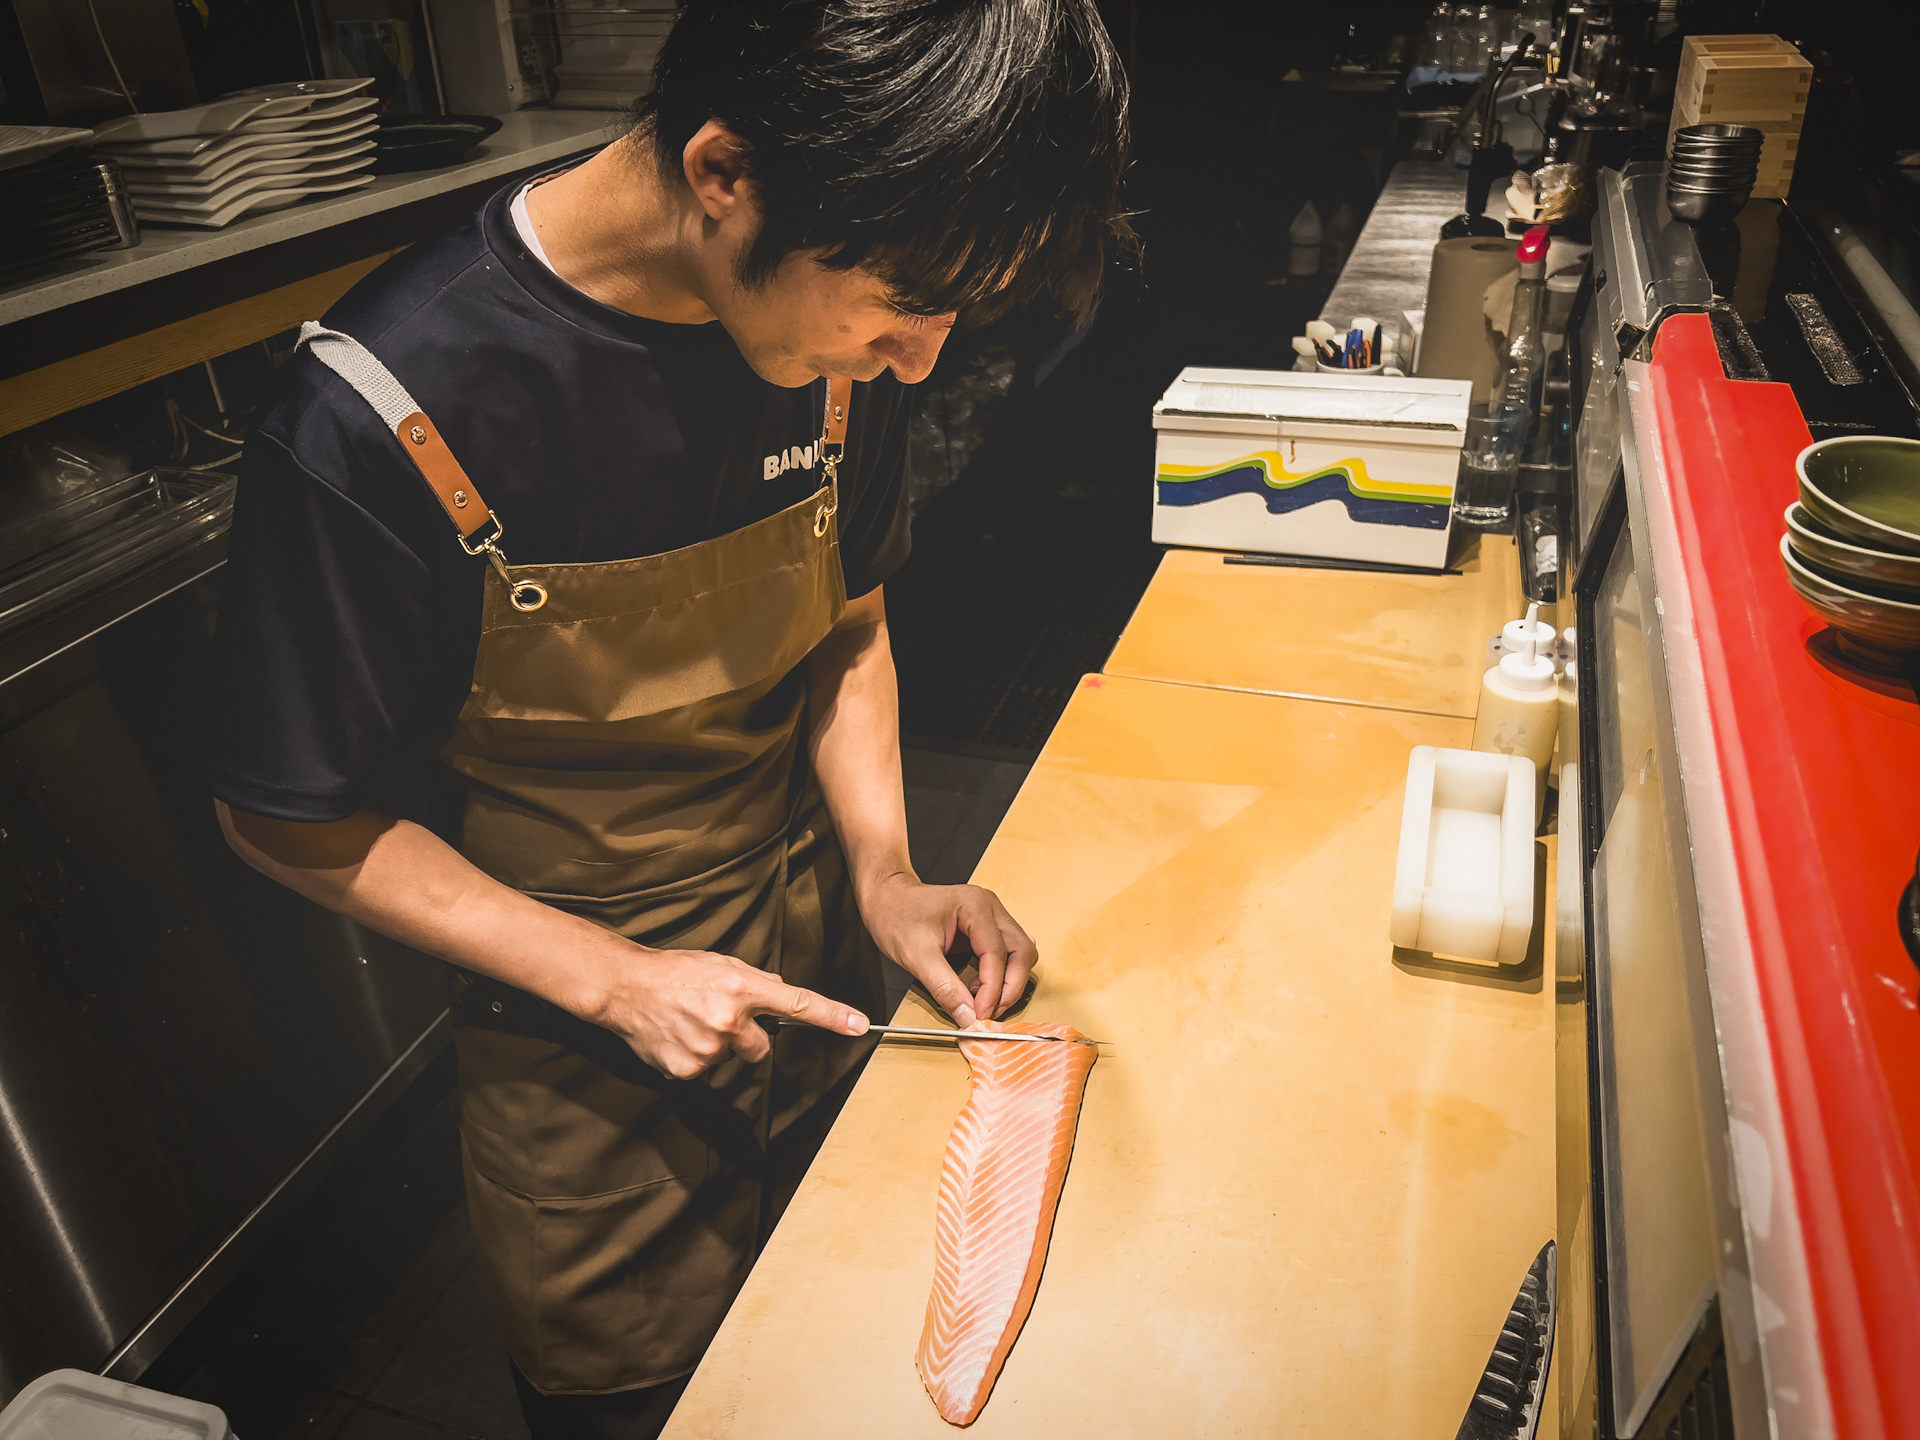
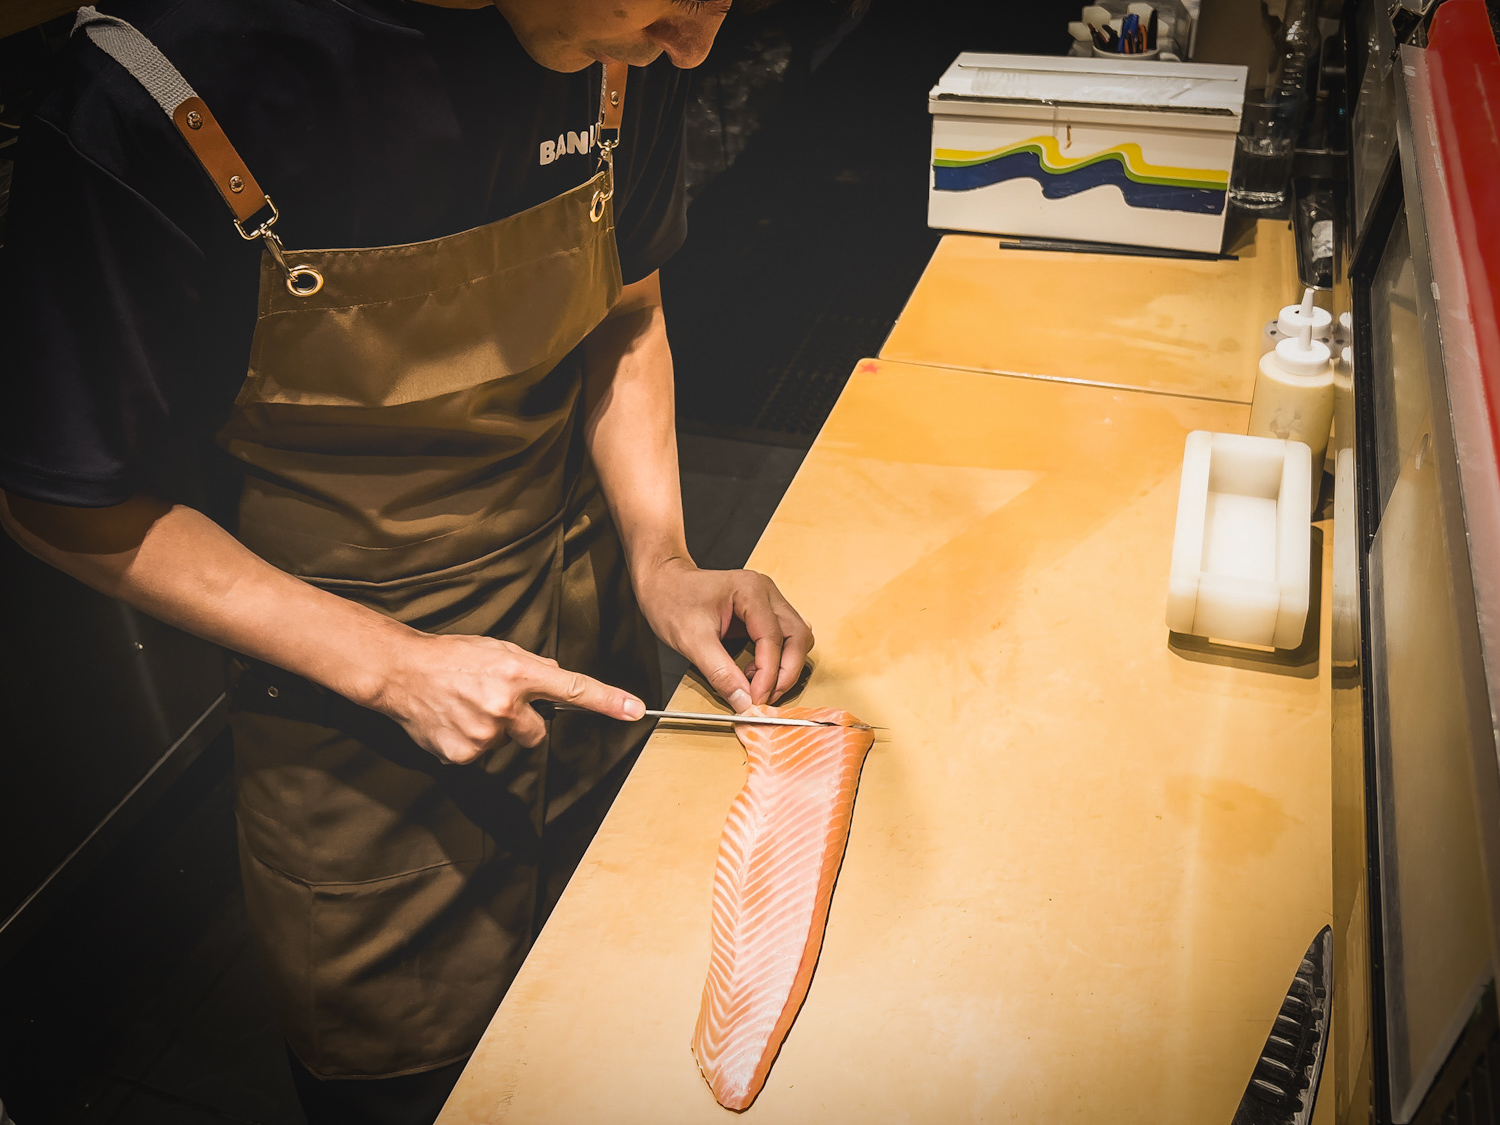
updated picture

diff --git a/index.html b/index.html
@@ -176,7 +176,7 @@
             <button class="move-contact-btn" onclick="location.href='contact.html'">Contact us</button>
         </div>
         <div class="move-contact-img-container" data-aos="fade" data-aos-easing="linear" data-aos-duration="1500">
-            <img src="img/joon.JPG">
+            <img src="img/move-contact.JPG">
         </div>
 
     </section>
